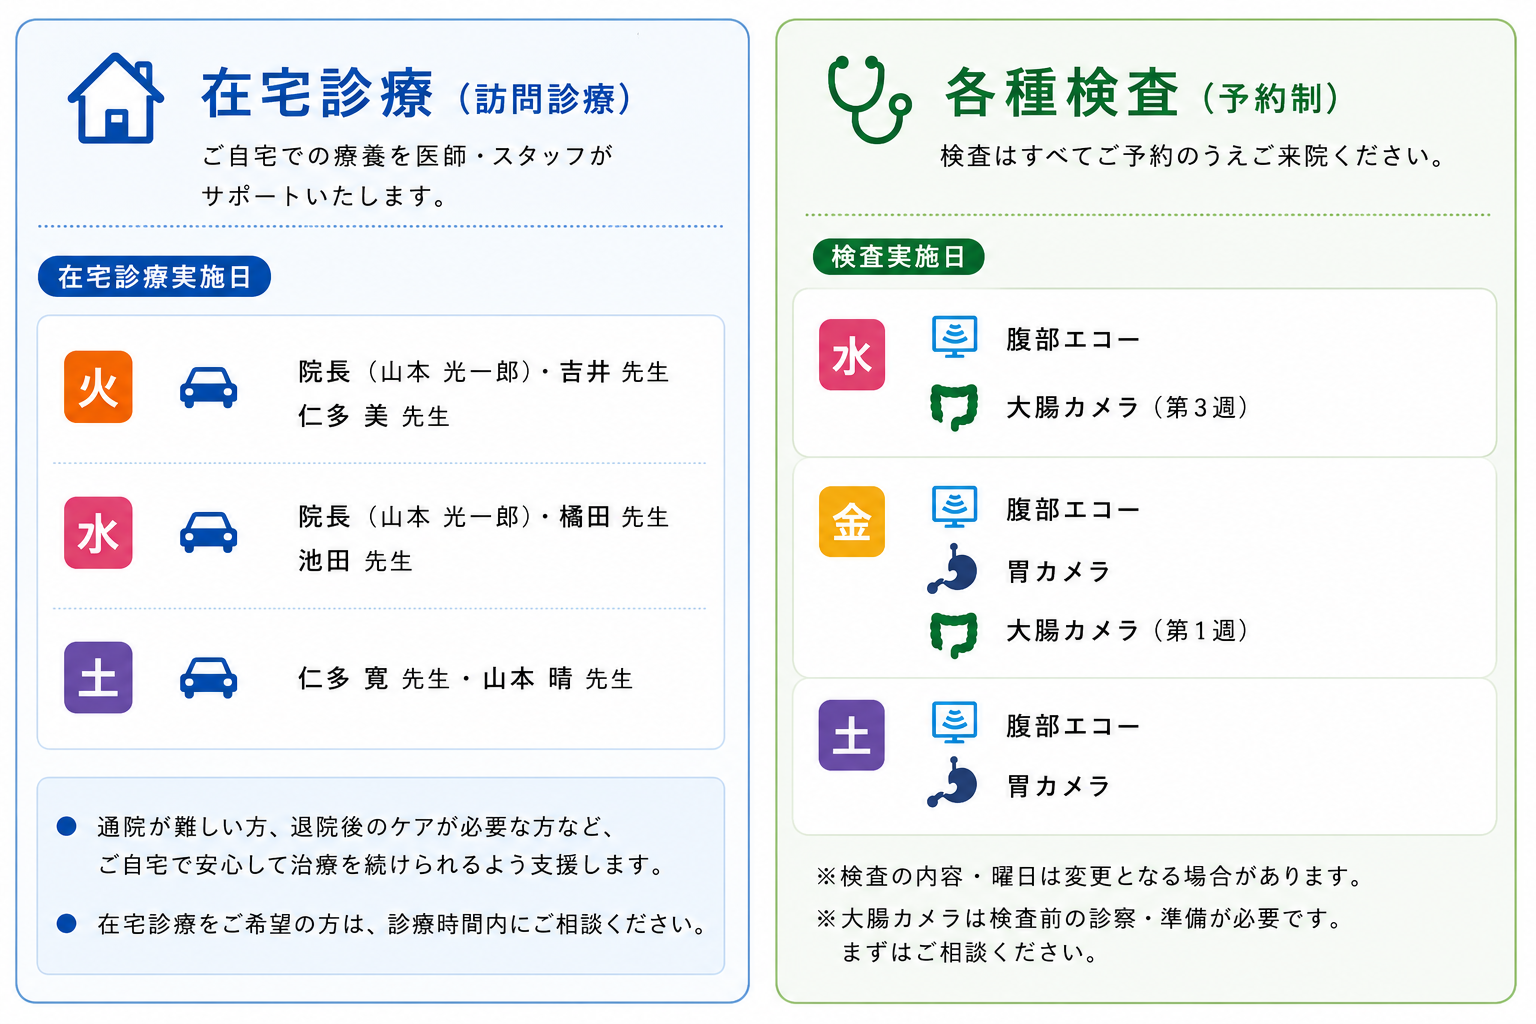
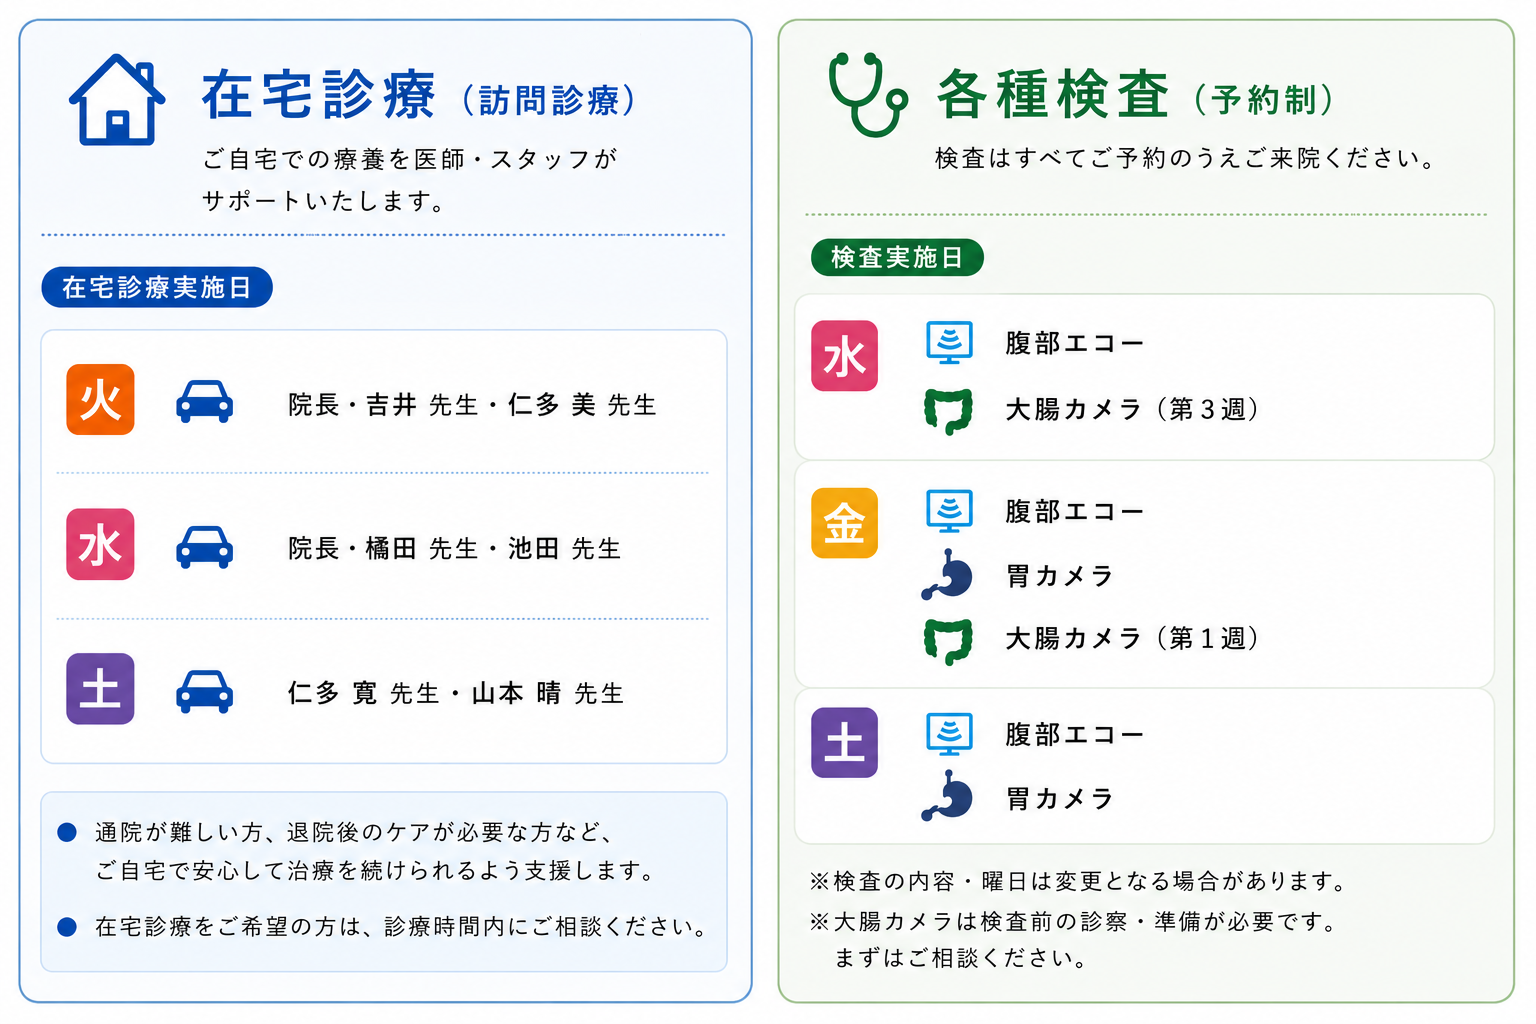
担当医表・検査担当の画像を差し替え、池田先生の専門を救急に変更
更新版の担当医表.png・検査担当.pngをtantoi_hyou.png・kensa_tanto.pngに差し替え。
医師紹介ページで池田先生の専門を訪問診療から救急に修正。

diff --git a/doctor.php b/doctor.php
@@ -95,7 +95,7 @@ include __DIR__ . '/partials/head.php';
         <h3>橘田 先生</h3>
       </div>
       <div class="card">
-        <p class="doctor-role">訪問診療</p>
+        <p class="doctor-role">救急</p>
         <h3>池田 先生</h3>
       </div>
     </div>

diff --git a/CLAUDE.md b/CLAUDE.md
@@ -1224,6 +1224,16 @@
   (ヘッダー薄青・枠線・列揃え)を確認。薬剤名が両ページから削除済みであることをgrepで確認。
   curlでPHP警告・エラー無しも確認済み
 
+## 担当医表・検査担当の画像を差し替え、池田先生の専門を「救急」に変更
+- ユーザーの指示で、更新版の担当医表.png・検査担当.pngを
+  assets/images/tantoi_hyou.png・kensa_tanto.pngに差し替え(旧webpキャッシュも削除し再生成)。
+  差し替え後、curlで両画像のPNG・WebPともHTTP 200・正しいサイズで配信されること、
+  ブラウザで画像URLを直接開いて新しい内容(担当医表の土曜担当医、検査担当の在宅診療曜日等)が
+  反映されていることを確認済み
+- doctor.phpの「その他の医師」で、池田先生の専門(doctor-role)を「訪問診療」→「救急」に変更
+- 確認: curlでdoctor.phpの池田先生の`doctor-role`が「救急」になっていること、
+  PHP警告・エラー無しを確認済み
+
 ## 未着手・今後の対応(次のステップ)
 - 採用情報ページ(recruit.php)の内容確認・調整: 実際の募集職種、給与額、待遇、院内・スタッフ写真、
   スタッフの声(実在のコメント)への差し替え
